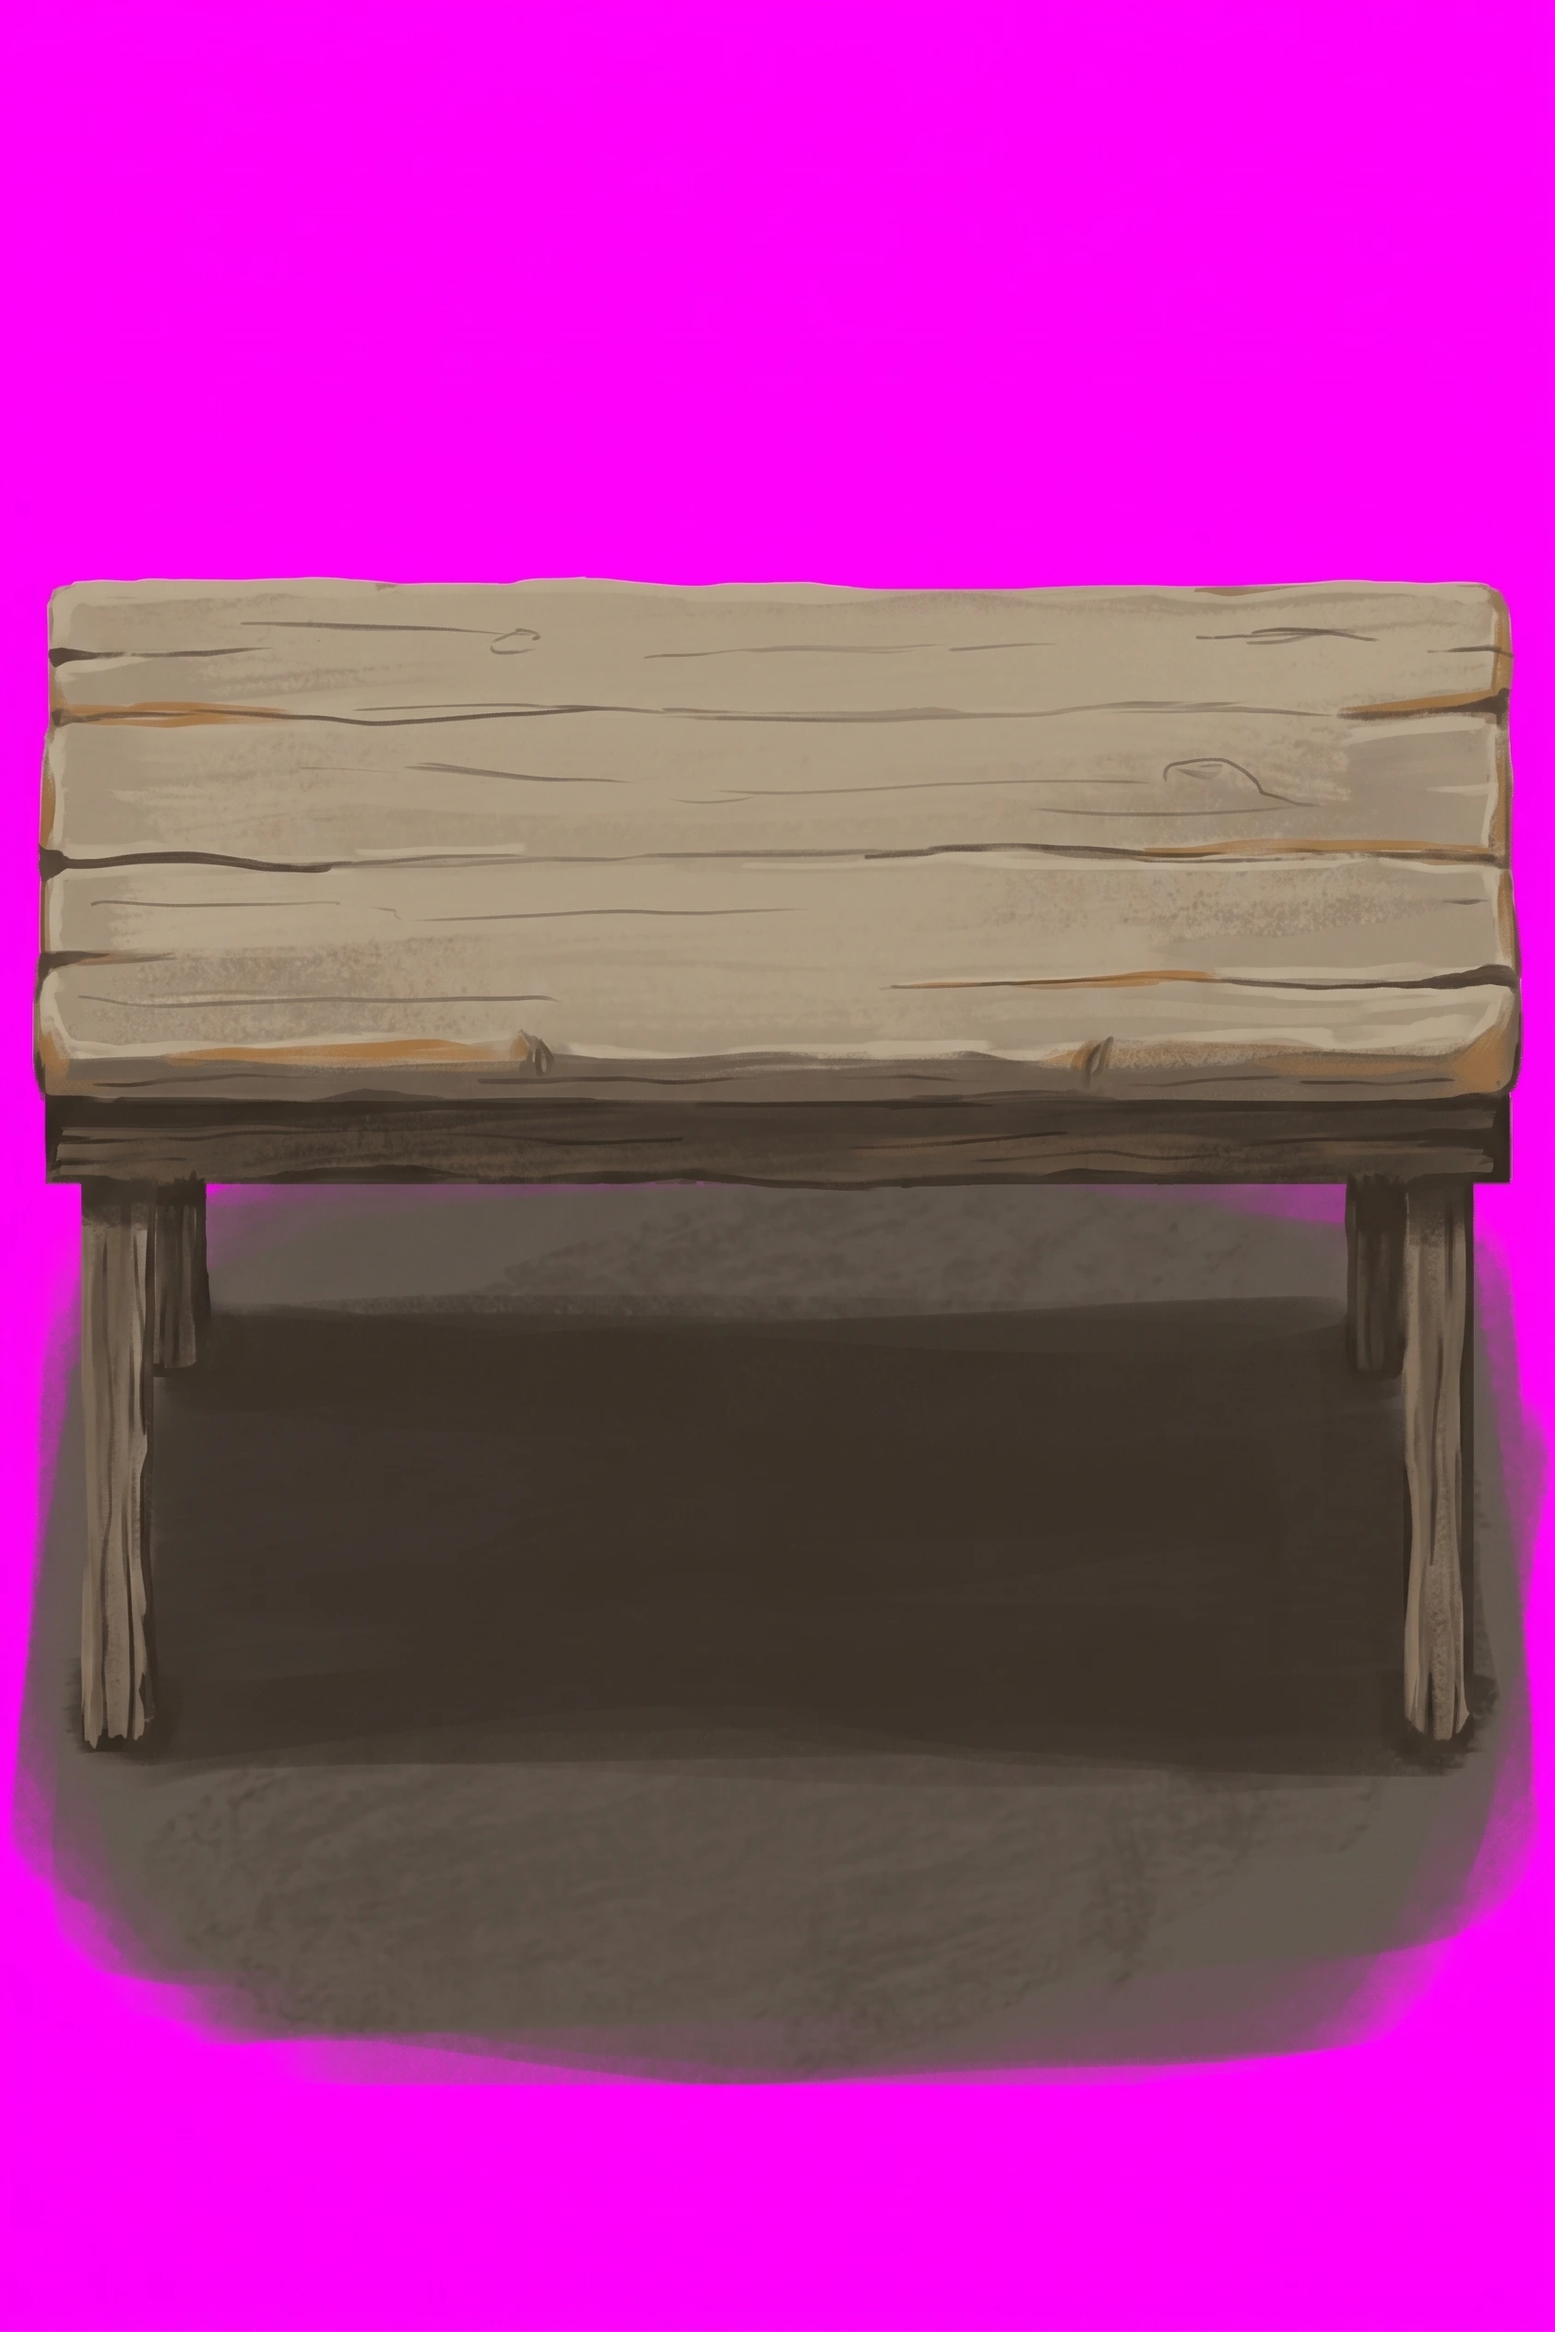
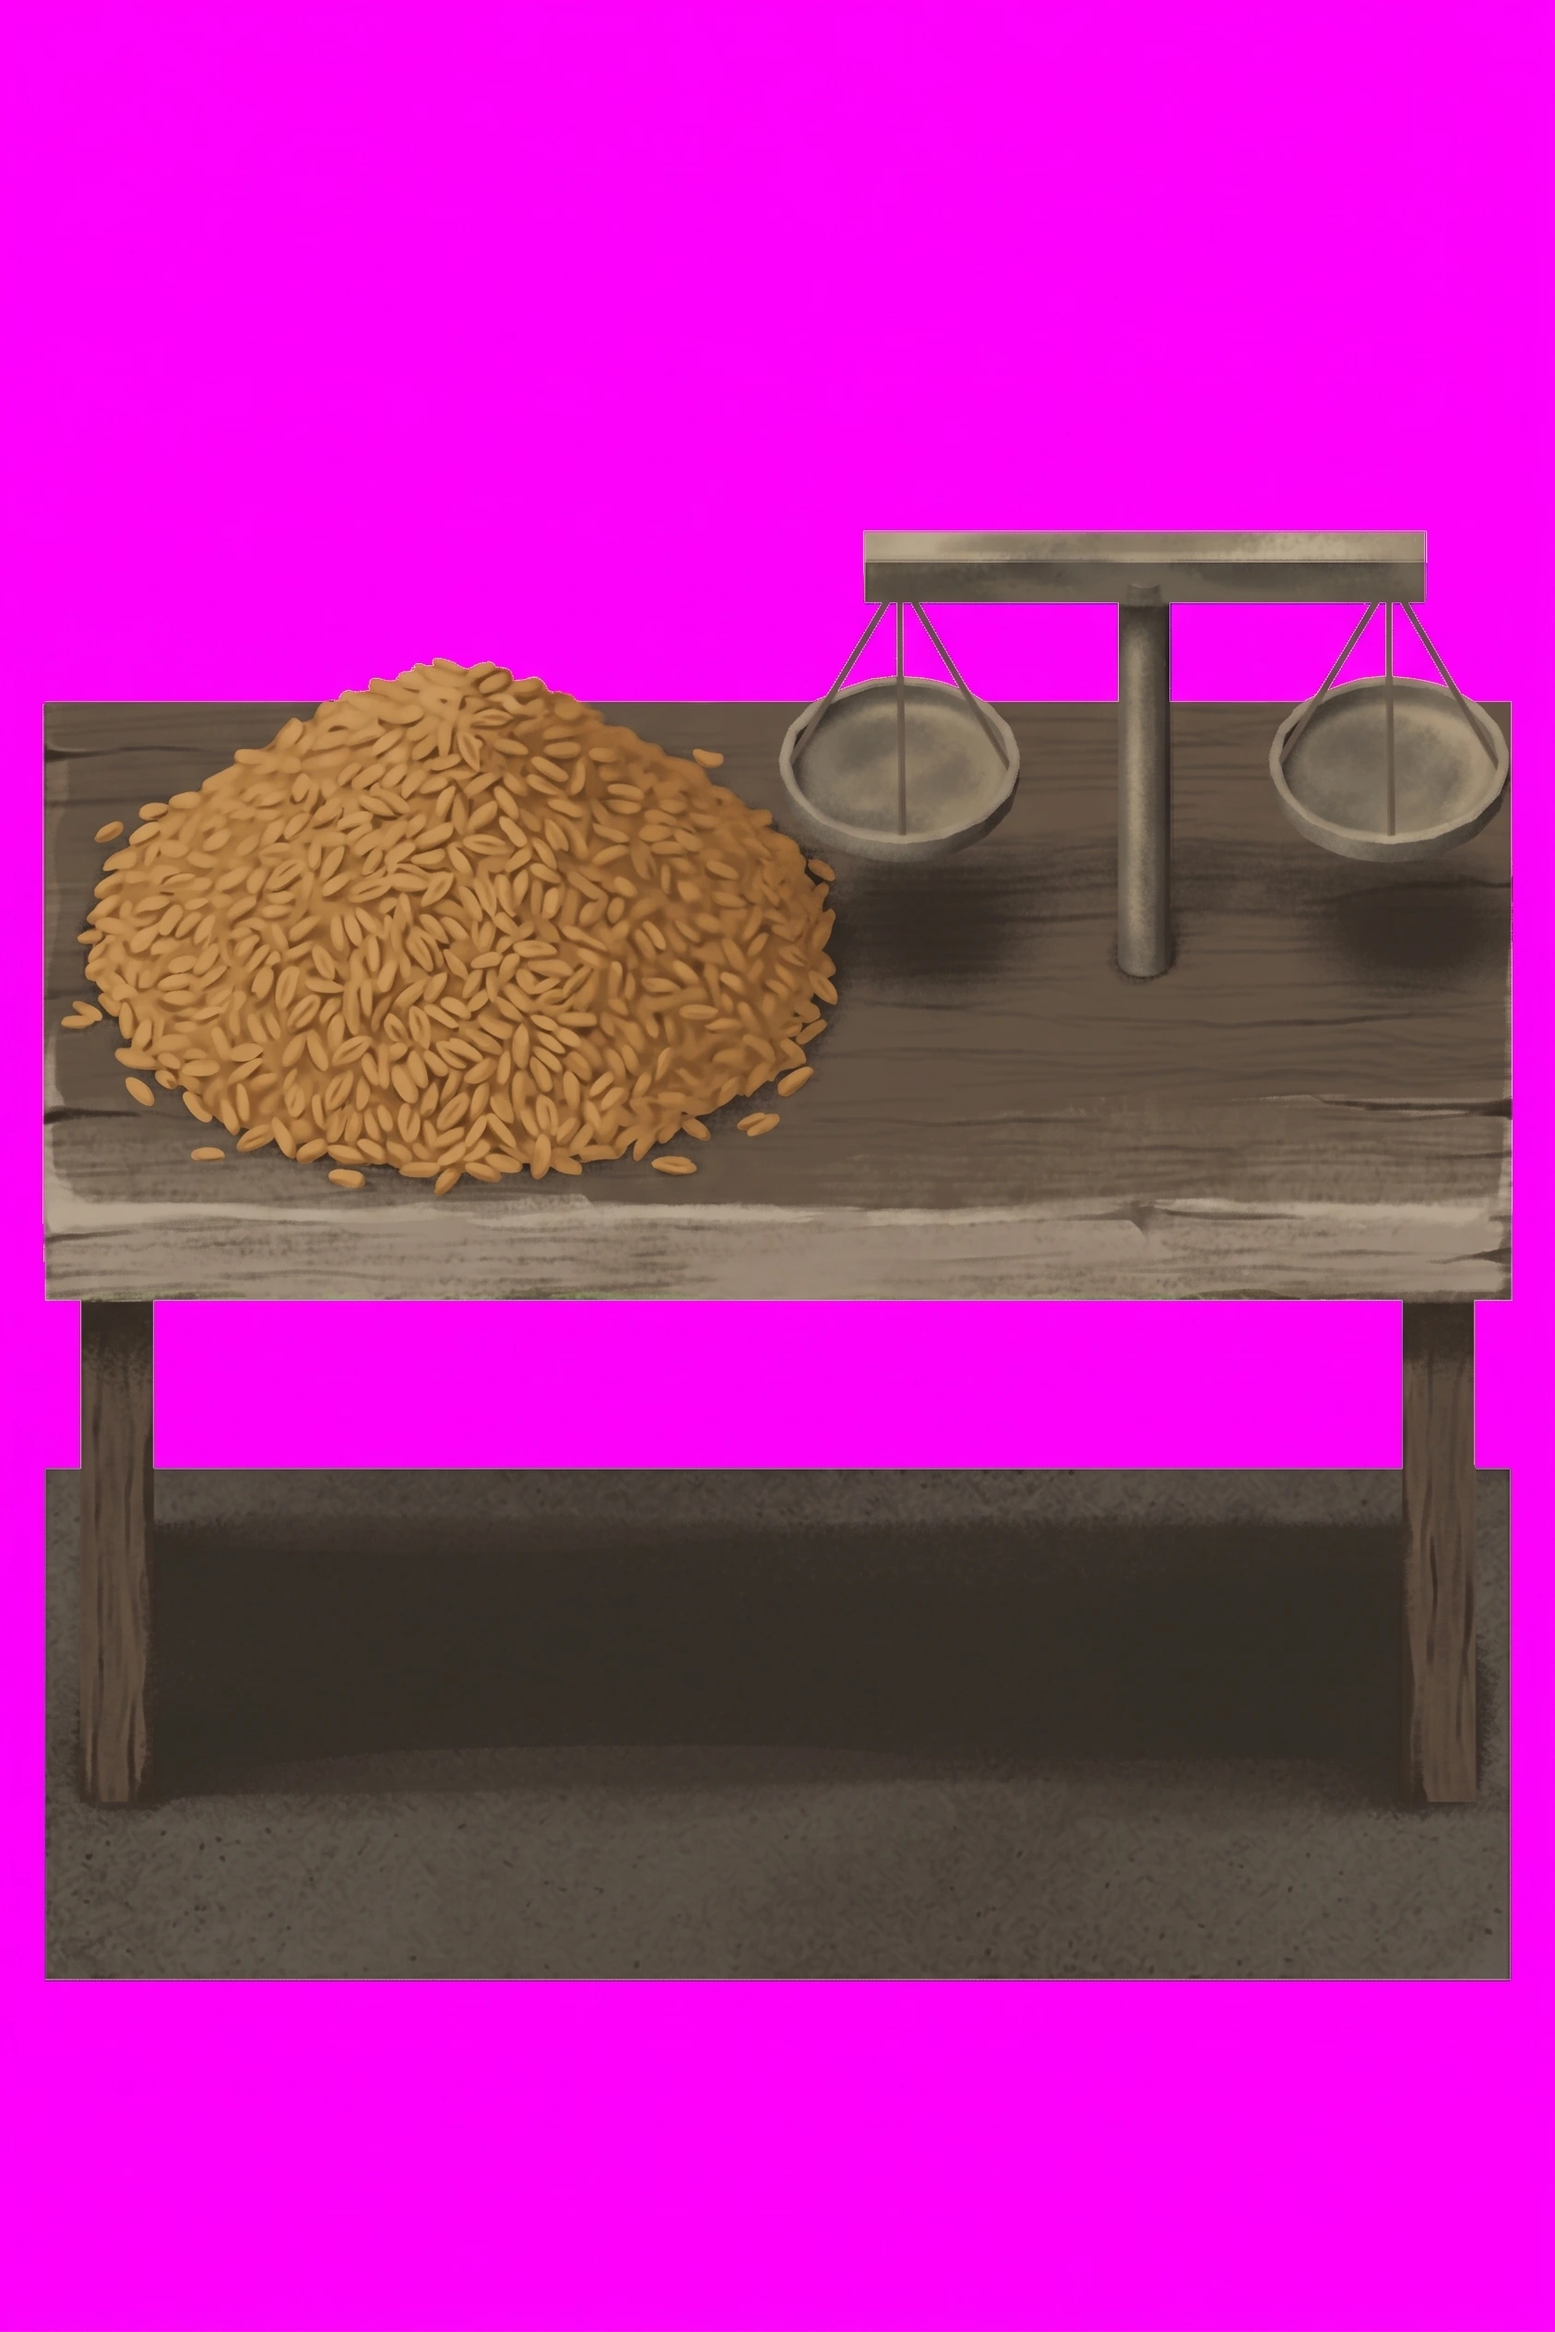
feat: the merchant's table joins the pipeline
offeringTable was one of the four props made by prompting alone, before the
pipeline existed. Its shadow was painted into the art, so it had no scaffold, no
mask and no rebuild line — which is how it missed the translucent seat that
shelf, chest, brazier, lamp, pillar and mat all got. One rank, two conventions.

A prompted tile cannot simply be GIVEN a rebuild line: there is nothing to mask
it against, nothing to seat under it, and the painted table was never drawn over
a scaffold, so a mask would cut a shape the art does not fill. It had to be
re-rolled over prim_market. jarRack, statue and basin are in the same position —
one roll each and they join the script.

--saturation=1.3 is the documented repaint drift rather than a choice: a
generator copying a render desaturates toward grey, and this returned at +14
warmth against a rank whose hand-painted props sit at +22 to +25. 1.3 lands it
at +24, beside the jar rack at +22 and the ka-statue at +22.

The mask did the heavy lifting again. The return drew the table larger, the
balance far bigger and the legs elsewhere; cut to the render's own alpha every
part snapped back to what was modelled, and what survived is the three materials
the marked scaffold asked for — timber, metal and grain, told apart instead of
guessed at.

Claude-Session: https://claude.ai/code/session_01TNgAGcPkVV74oznnqfXVVF

diff --git a/art/README.md b/art/README.md
@@ -37,8 +37,17 @@ see whether a change to `importTile.ts` moved a tile that is already approved.
 
 ## What rebuild.sh covers, and what it does not
 
-Only the props made through [the prop pipeline](../docs/instructions/prop-pipeline.md) — currently
-`shelf`, `chestProp`, `brazier` — have a rebuild line, because the pipeline records the flags as it goes.
+Only the props made through [the prop pipeline](../docs/instructions/prop-pipeline.md) have a rebuild
+line, because the pipeline records the flags as it goes. At the merchant that is `shelf`, `chestProp`,
+`brazier`, `lamp`, `pillar`, `mat`, `pit` and now `offeringTable`; at the nobleman all four props and all
+three wall items.
+
+**A prompted tile cannot simply be GIVEN a rebuild line, which is why `offeringTable` had to be re-rolled
+to get one.** Its shadow was painted into the art, so there is nothing to mask it against and nothing to
+seat under it, and the painted table was never drawn over a scaffold in the first place — the mask would
+have cut a shape the art does not fill. `jarRack`, `statue` and `basin` are in the same position: one roll
+each over their primitive, and they join the script. Until then they keep the opaque painted shadow, where
+everything on a rebuild line now shades the floor instead of replacing it.
 
 The four earlier merchant props were matched back to their downloads by fingerprint rather than by
 filename, which is the only reliable way once a name like `Gemini_Generated_Image_ifyf61ifyf61ifyf.jpeg`

diff --git a/CHANGELOG.md b/CHANGELOG.md
@@ -17,6 +17,8 @@ and this project adheres to [Semantic Versioning](https://semver.org/spec/v2.0.0
 - Fallen brick is two different things depending on where you meet it: a spill across a passage floor you
   walk over, and a knee-high heap in the corner of a chamber you walk around. Seventy-seven rooms that
   were furnished with one and drew nothing at all now draw the heap.
+- The merchant's market table is his trade laid out: barley heaped loose on the boards and a two-pan
+  balance standing beside it, its pans swinging on their cords.
 - What a prop stands in is a shadow rather than a hole: the floor's own paving, joints and grit show
   through it now, and it is the colour of that floor in shade rather than of some other tomb's.
 - The nobleman's chambers start to furnish: a bordered reed mat, a fire burning on its tripod, a fall of
